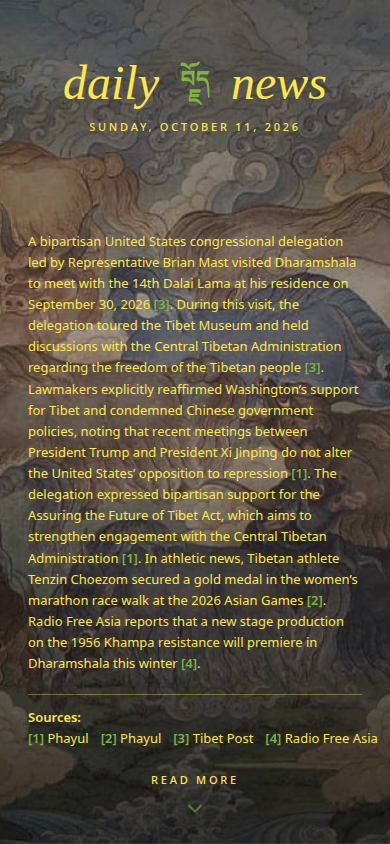
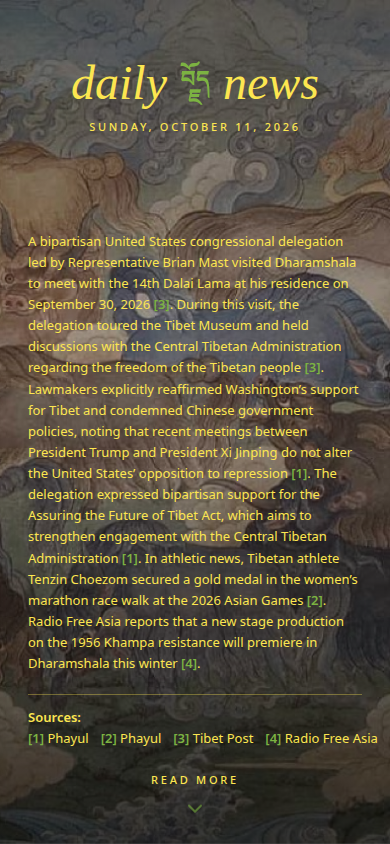
Tighten daily news header spacing
Reduce the gap between 'daily', the seal, and 'news' so the headline
reads as a tighter unit. Refresh PR screenshots.

Changed region(s): [[0.1538, 0.0616, 0.4308, 0.154], [0.5538, 0.0924, 0.8308, 0.1232]]

diff --git a/client/src/pages/daily-homepage.tsx b/client/src/pages/daily-homepage.tsx
@@ -92,7 +92,7 @@ export function DailyHomepage() {
         >
           {/* Header */}
           <header className="pt-[7vh] text-center">
-            <h1 className="daily-serif flex items-center justify-center gap-3 text-5xl md:gap-4 md:text-6xl">
+            <h1 className="daily-serif flex items-center justify-center gap-1 md:gap-2 text-5xl md:text-6xl">
               <span>daily</span>
               <span style={{ color: ACCENT_CLOVER }}>
                 <BhoeJaSeal className="h-12 w-12 md:h-14 md:w-14" />
